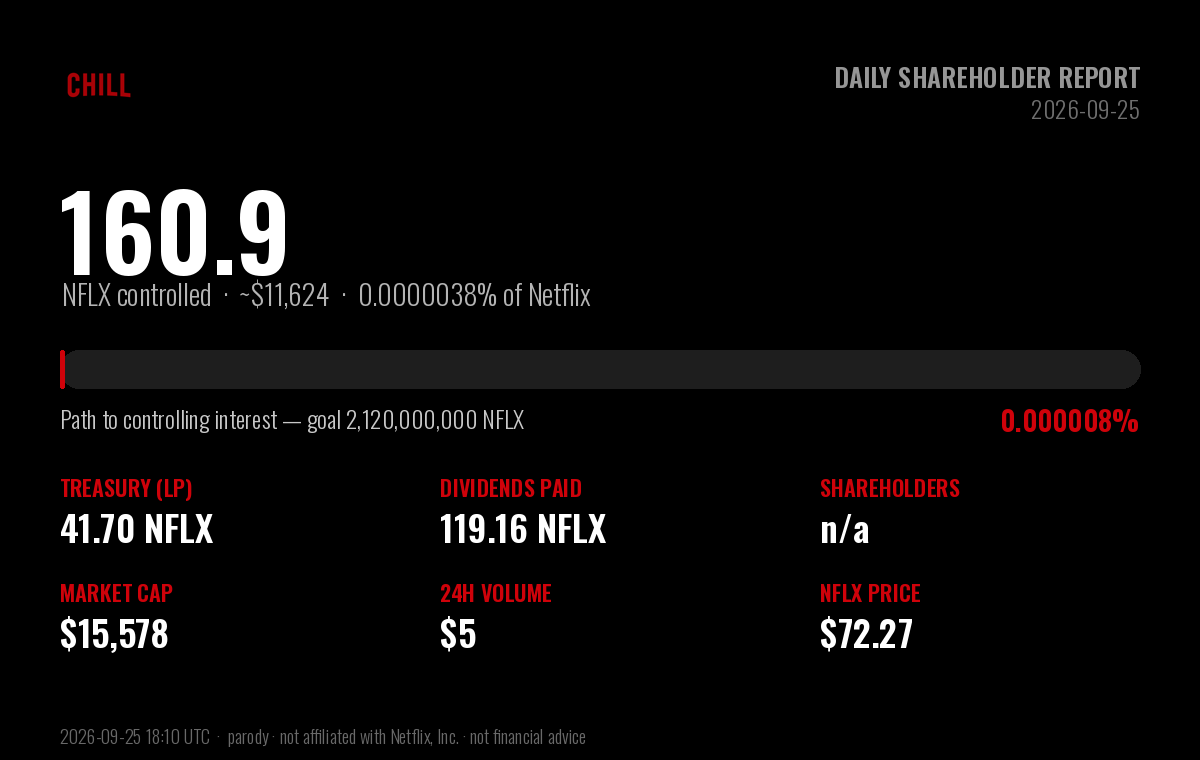
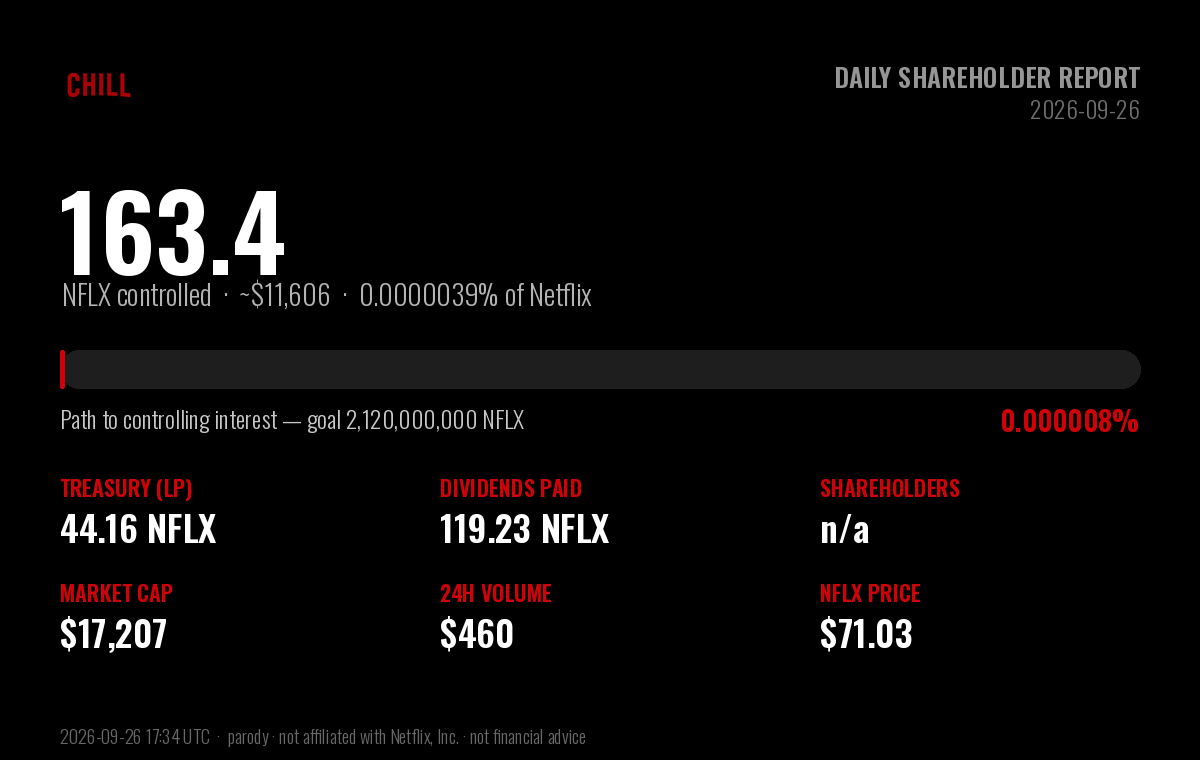
chore: daily $CHILL shareholder report (2026-09-26)

diff --git a/daily-holder-report/README.md b/daily-holder-report/README.md
@@ -1,6 +1,6 @@
 # $CHILL — Daily Shareholder Report
 
-### Netflix and Chill · Report to Shareholders · 2026-09-25
+### Netflix and Chill · Report to Shareholders · 2026-09-26
 
 > **Corporate objective:** acquire a controlling interest in Netflix (NFLX).
 > Netflix has **4,220,000,000** shares outstanding; a majority
@@ -13,53 +13,53 @@
 
 | Metric | Value |
 |---|---|
-| **NFLX under $CHILL control** | **160.86 NFLX** (~$11,624) |
-| Stake in Netflix | 0.000003812% of shares outstanding |
-| Progress to controlling interest | 0.0000076% of 2,120,000,000 |
-| Shares remaining to majority | 2,119,999,839 NFLX |
+| **NFLX under $CHILL control** | **163.38 NFLX** (~$11,606) |
+| Stake in Netflix | 0.000003872% of shares outstanding |
+| Progress to controlling interest | 0.0000077% of 2,120,000,000 |
+| Shares remaining to majority | 2,119,999,837 NFLX |
 
 ## Balance sheet — NFLX holdings
 
 | Holding | NFLX | USD |
 |---|---|---|
-| Treasury (protocol-owned liquidity) | 41.70 | $3,013 |
-| Dividends distributed to shareholders | 119.16 | $8,611 |
-| **Total NFLX controlled** | **160.86** | **$11,624** |
+| Treasury (protocol-owned liquidity) | 44.16 | $3,137 |
+| Dividends distributed to shareholders | 119.23 | $8,469 |
+| **Total NFLX controlled** | **163.38** | **$11,606** |
 
 ## Last 24 hours
 
 | Metric | Value |
 |---|---|
-| Trading volume | 0.07 NFLX (~$5) |
-| Net NFLX accumulated | 0.07 NFLX |
-| Dividends generated | 0.0007 NFLX |
-| Transactions | 1 (1 buys / 0 sells) |
-| $CHILL price change | +1.0% |
+| Trading volume | 6.47 NFLX (~$460) |
+| Net NFLX accumulated | 2.46 NFLX |
+| Dividends generated | 0.0647 NFLX |
+| Transactions | 5 (4 buys / 1 sells) |
+| $CHILL price change | +1.4% |
 
 ## Shareholder & market data
 
 | Metric | Value |
 |---|---|
 | Shareholders of record | n/a |
-| Lifetime unique participants | 1800 |
+| Lifetime unique participants | 1802 |
 | Shares outstanding ($CHILL) | 1,000,000,000 |
-| Market capitalization | $15,578 |
-| $CHILL price | $0.00001558 |
-| NFLX price | $72.27 |
-| Lifetime volume | 11,916.08 NFLX (~$861,129) |
-| Lifetime transactions | 8,537 (4,777 buys / 3,760 sells) |
-| Days since IPO (launch) | 68 |
+| Market capitalization | $17,207 |
+| $CHILL price | $0.00001721 |
+| NFLX price | $71.03 |
+| Lifetime volume | 11,922.55 NFLX (~$846,897) |
+| Lifetime transactions | 8,542 (4,781 buys / 3,761 sells) |
+| Days since IPO (launch) | 69 |
 
 ## Per-share metrics
 
 | Metric | Value |
 |---|---|
-| NFLX backing per 1M $CHILL | 0.160856 NFLX |
-| Dividends per 1M $CHILL | 0.119161 NFLX |
+| NFLX backing per 1M $CHILL | 0.163385 NFLX |
+| Dividends per 1M $CHILL | 0.119226 NFLX |
 
 ---
 
-*Report generated 2026-09-25 18:10 UTC · block 72,430,861 · data via the Sentry-Robinhood
+*Report generated 2026-09-26 17:34 UTC · block 73,265,667 · data via the Sentry-Robinhood
 subgraph and Robinhood Chain explorer.*
 
 **Disclaimer:** $CHILL is an independent, community-driven **parody** token. It is
